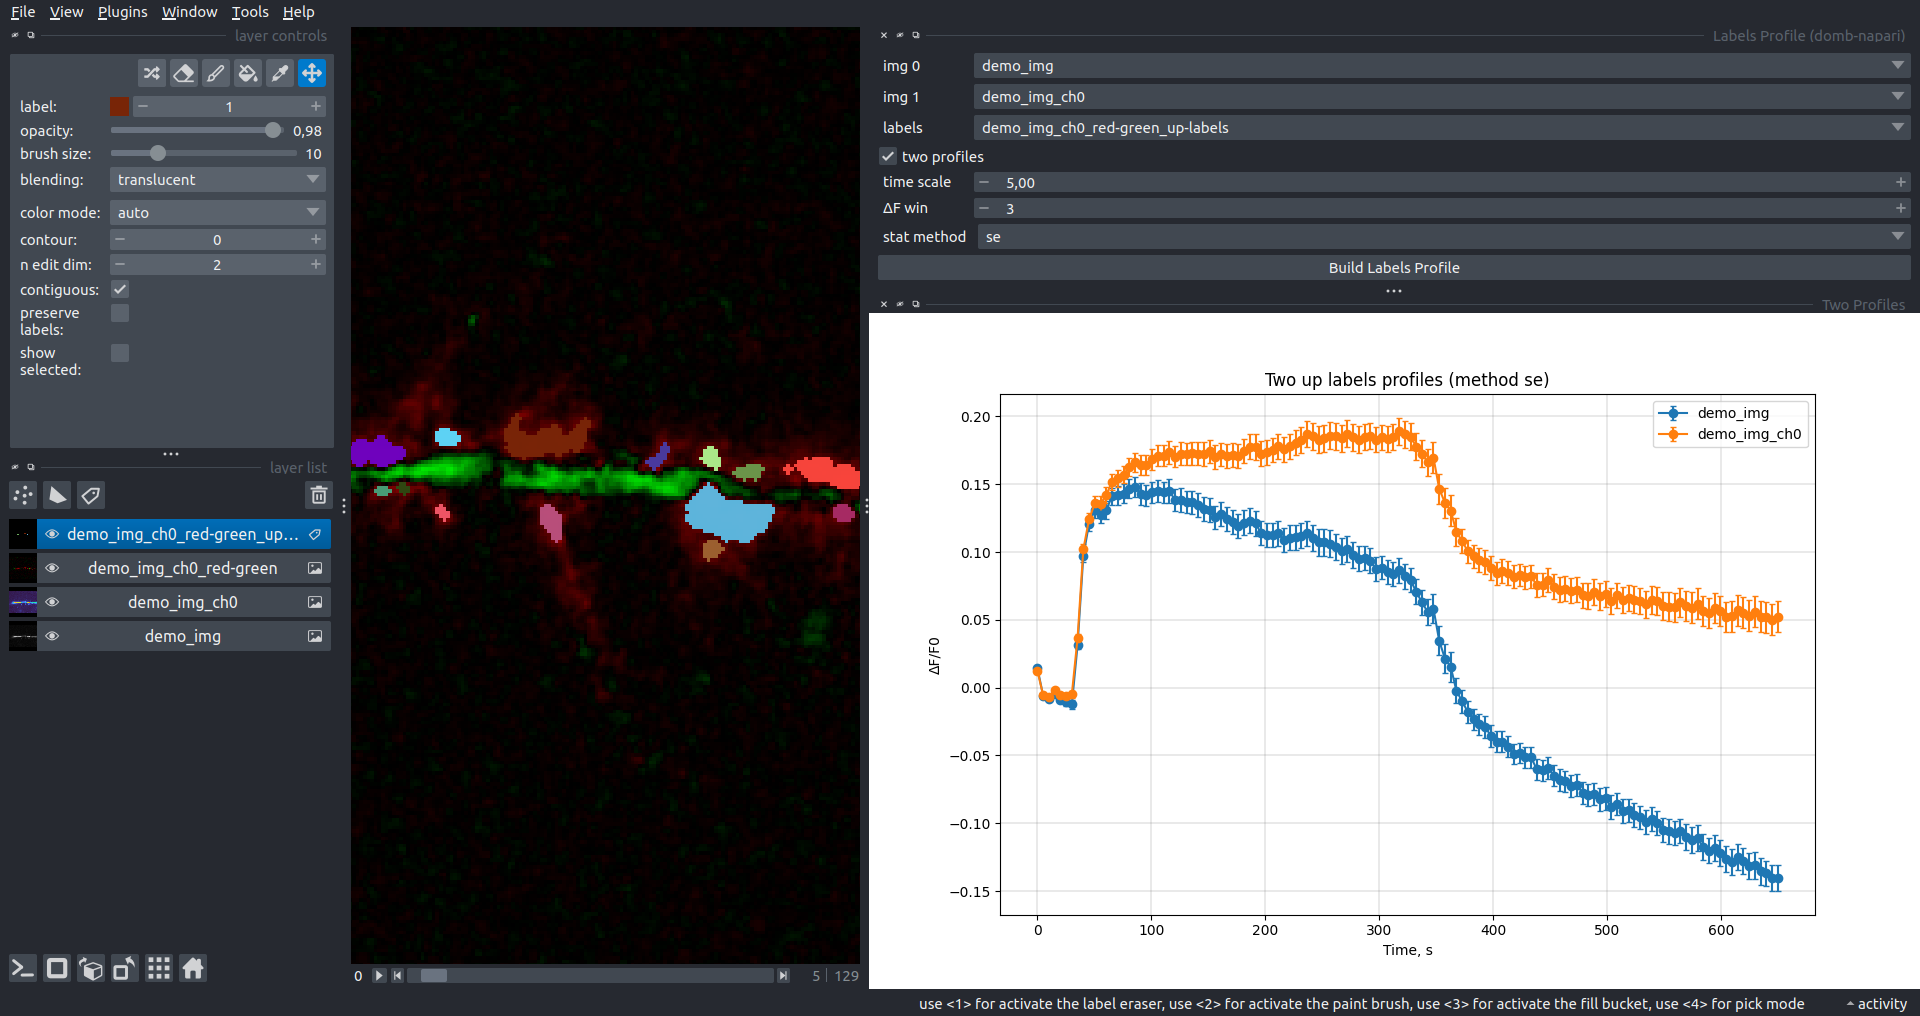
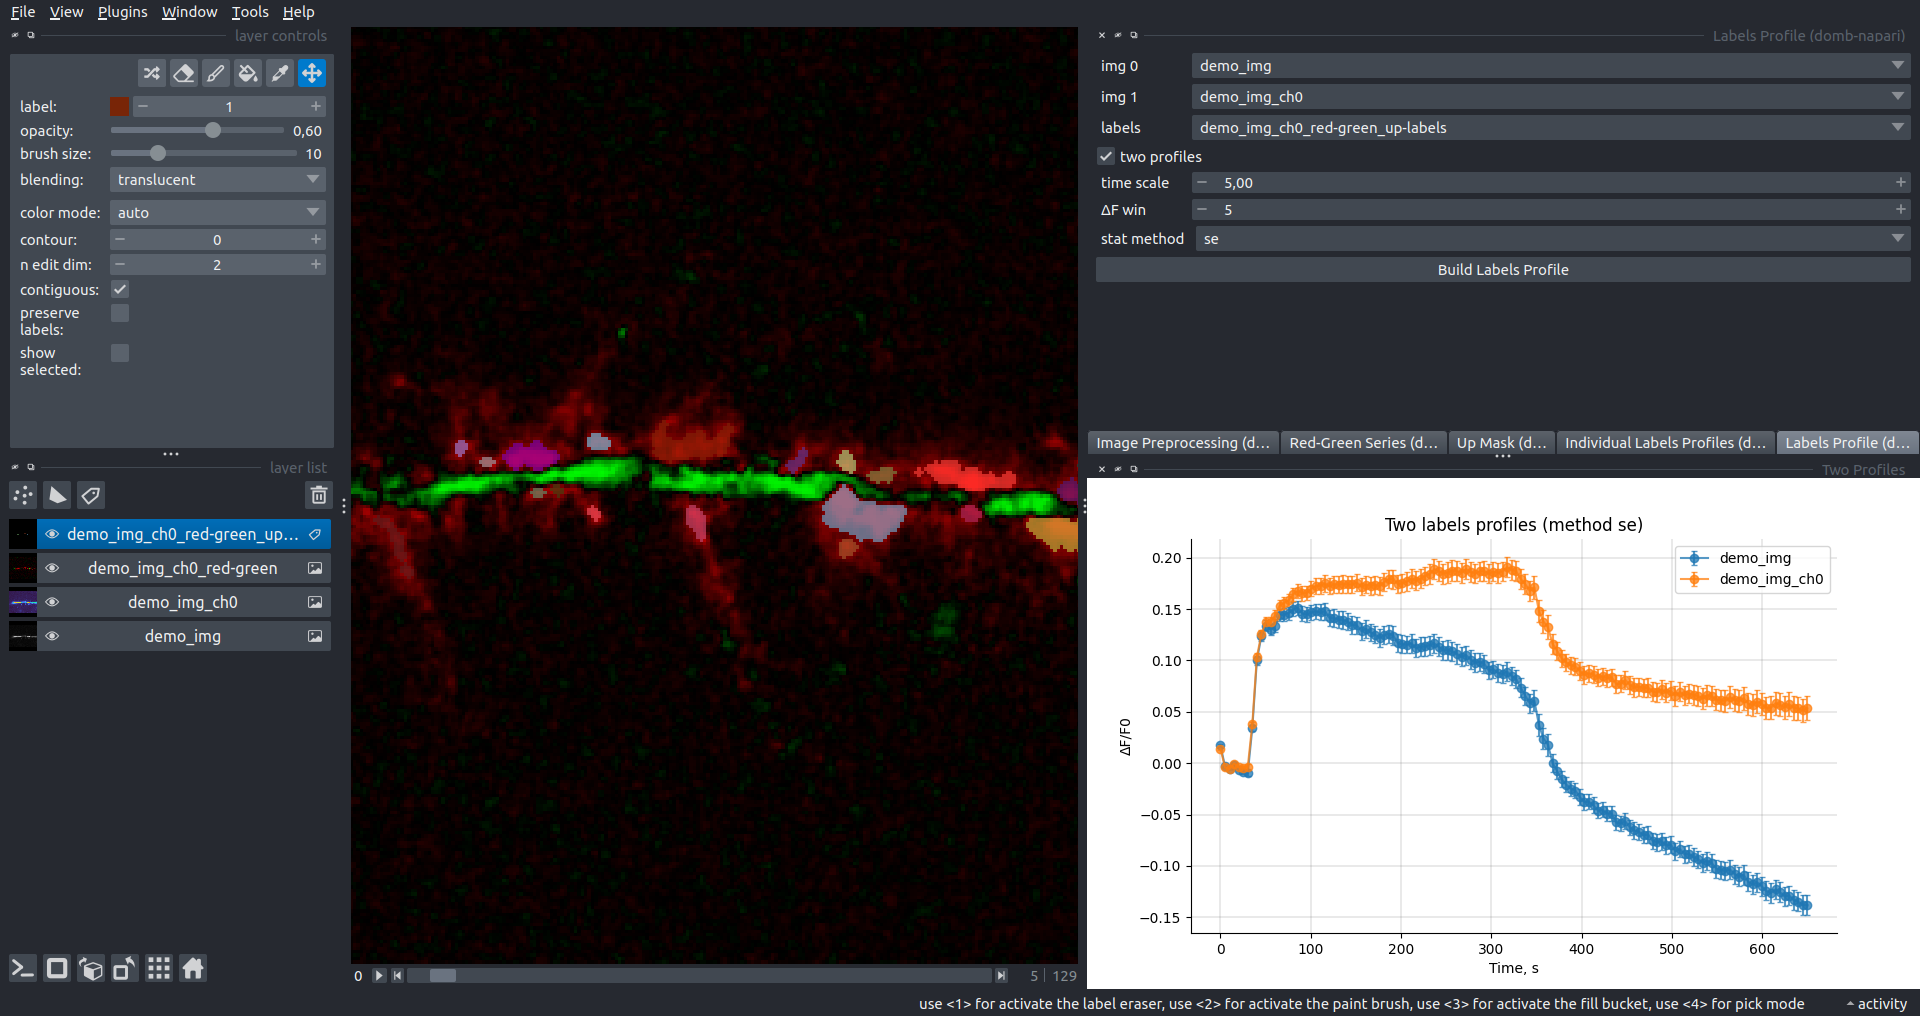
23.11.2023: add .csv output

diff --git a/domb_napari/_widget.py b/domb_napari/_widget.py
@@ -7,6 +7,9 @@ from napari import Viewer
 from napari.types import LabelsData, ImageData
 from napari.layers import Image, Points, Labels
 
+import pathlib
+import os
+
 import numpy as np
 from scipy import ndimage as ndi
 from scipy import stats
@@ -35,13 +38,14 @@ def split_channels(viewer: Viewer, img:Image,
             print(f'{img.name}: Split and preprocessing mode')
             for i in range(img.data.shape[1]):
                 ch_name = img.name + f'_ch{i}'
-                ch_img = img.data[:,i,:,:]
+                ch_img = img.data[:,i,:,:].astype(float)
+                corr_img = np.mean(ch_img, axis=0)
+                corr_mask = corr_img > filters.threshold_otsu(corr_img)
+                corr_mask = morphology.dilation(corr_mask, footprint=morphology.disk(10))
                 if gaussian_blur:
                     ch_img = filters.gaussian(ch_img, sigma=gaussian_sigma, channel_axis=0)
                     print(f'{ch_name}: Img series blured with sigma {gaussian_sigma}')
                 if photobleaching_correction:
-                    corr_img = np.mean(ch_img, axis=0)
-                    corr_mask = corr_img > filters.threshold_otsu(corr_img)
                     ch_img,_,r_corr = masking.pb_exp_correction(input_img=ch_img,
                                                                 mask=corr_mask,
                                                                 method=correction_method)
@@ -156,46 +160,107 @@ def up_mask_calc(viewer: Viewer, img:Image, detection_img_index:int=2,
                 viewer.add_labels(up_mask, name=mask_name,
                                 num_colors=1, color={1:(255,0,0,255)},
                                 opacity=0.6)
+                
+
+# @magic_factory(call_button='Build Down Mask',
+#                insertion_threshold={"widget_type": "FloatSlider", 'max': 0, 'min': -0.75},)  # insertions_threshold={'widget_type': 'FloatSlider', 'max': 1}
+# def down_mask_calc(viewer: Viewer, img:Image, detection_img_index:int=2,
+#                    insertion_threshold:float=-0.2,
+#                    save_mask:bool=False):
+#     if input is not None:
+#         if img.data.ndim != 3:
+#             raise ValueError('The input image should have 2 dimensions!')
+#         input_img = img.data
+#         detection_img = input_img[detection_img_index]
+        
+#         up_mask = detection_img >= np.max(np.abs(detection_img)) * insertion_threshold
+#         up_mask = morphology.opening(up_mask, footprint=morphology.disk(1))
+#         up_mask = ndi.binary_fill_holes(up_mask)
+#         up_mask = up_mask.astype(int)
+#         up_labels = measure.label(up_mask)
+#         print(f'Up mask shape: {up_mask.shape}, detected {np.max(up_labels)} labels')
+            
+#         labels_name = img.name + '_down-labels'
+#         try:
+#             viewer.layers[labels_name].data = up_labels
+#         except KeyError:
+#             viewer.add_labels(up_labels, name=labels_name, opacity=0.6)
+
+#         if save_mask:
+#             mask_name = img.name + '_down-mask'
+#             try:
+#                 viewer.layers[mask_name].data = up_mask
+#             except KeyError:
+#                 viewer.add_labels(up_mask, name=mask_name,
+#                                 num_colors=1, color={1:(255,0,0,255)},
+#                                 opacity=0.6)
 
 
-@magic_factory(call_button='Build Set Labels Profiles',)
+@magic_factory(call_button='Build Set Labels Profiles',
+               saving_path={'mode': 'd'})
 def labels_profile_line(viewer: Viewer, img:Image, labels:Labels,
                         time_scale:float=2.0,
                         raw_intensity:bool=False,
                         ΔF_win:int=5,
                         min_amplitude:float=0.0,
-                        max_amplitude:float=5.0):
+                        max_amplitude:float=5.0,
+                        save_data_frame:bool=False,
+                        saving_path:pathlib.Path = os.getcwd()):
     if input is not None:
         input_img = img.data
         input_labels = labels.data
+        df_name = img.name + '_lab_prof'
 
         profile_dF, profile_raw = masking.label_prof_arr(input_label=input_labels,
                                                          input_img_series=input_img,
                                                          f0_win=ΔF_win)
+        time_line = np.linspace(0, input_img.shape[0]*time_scale, \
+                                num=input_img.shape[0])
+
         if raw_intensity:
             profile_to_plot = profile_raw
             ylab = 'Intensity, a.u.'
+            df_name = df_name + '_raw'
         else:
             profile_to_plot = profile_dF
             ylab = 'ΔF/F0'
+            df_name = df_name + '_dF'
 
-        # plotting
-        time_line = np.linspace(0, input_img.shape[0]*time_scale, \
-                                num=input_img.shape[0])
-        
+        if save_data_frame:
+            import pandas as pd
+            output_df = pd.DataFrame(columns=['id','roi','int', 'time'])
+            for num_ROI in range(profile_to_plot.shape[0]):
+                profile_ROI = profile_to_plot[num_ROI]
+                df_ROI = pd.DataFrame({'id':np.full(profile_ROI.shape[0], img.name),
+                                       'roi':np.full(profile_ROI.shape[0], num_ROI+1),
+                                       'int':profile_ROI,
+                                       'time':time_line})
+                output_df = pd.concat([output_df.astype(df_ROI.dtypes),
+                                       df_ROI.astype(output_df.dtypes)],
+                                      ignore_index=True)
+            output_df.to_csv(os.path.join(saving_path, df_name+'.csv'))
+
+        # plotting        
         mpl_fig = plt.figure()
         ax = mpl_fig.add_subplot(111)
+        ax.spines['top'].set_visible(False)
+        ax.spines['right'].set_visible(False)
         for num_ROI in range(profile_to_plot.shape[0]):
             profile_ROI = profile_to_plot[num_ROI]
-            if (profile_ROI.max() < min_amplitude) | (profile_ROI.max() > max_amplitude):
-                continue
-            else:
+            if raw_intensity:
                 ax.plot(time_line, profile_ROI,
                          alpha=0.35, marker='o')
+                plt_title = f'{img.name} individual labels raw profiles'
+            elif (profile_ROI.max() > min_amplitude) | (profile_ROI.max() < max_amplitude):
+                ax.plot(time_line, profile_ROI,
+                         alpha=0.35, marker='o')
+                plt_title = f'{img.name} individual labels profiles (min={min_amplitude}, max={max_amplitude})'
+            else:
+                continue
         ax.grid(color='grey', linewidth=.25)
         ax.set_xlabel('Time, s')
         ax.set_ylabel(ylab)
-        plt.title(f'{img.name} individual labels profiles (min={max_amplitude}, max={min_amplitude})')
+        plt.title(plt_title)
         viewer.window.add_dock_widget(FigureCanvas(mpl_fig), name=f'{img.name} Profile')
 
 
@@ -242,29 +307,30 @@ def labels_profile_stat(viewer: Viewer, img_0:Image, img_1:Image, labels:Labels,
                                 num=input_img_0.shape[0])
         
         mpl_fig = plt.figure()
+        ax = mpl_fig.add_subplot(111)
+        ax.spines['top'].set_visible(False)
+        ax.spines['right'].set_visible(False)        
         if two_profiles:
-            ax = mpl_fig.add_subplot(111)
             ax.errorbar(time_line, arr_val_0,
                         yerr = arr_var_0,
-                        fmt ='-o', capsize=2, label=img_0.name)
+                        fmt ='-o', capsize=2, label=img_0.name, alpha=0.75)
             ax.errorbar(time_line, arr_val_1,
                         yerr = arr_var_1,
-                        fmt ='-o', capsize=2, label=img_1.name)
+                        fmt ='-o', capsize=2, label=img_1.name, alpha=0.75)
             ax.grid(color='grey', linewidth=.25)
             ax.set_xlabel('Time, s')
             ax.set_ylabel('ΔF/F0')
             plt.legend()
-            plt.title(f'Two up labels profiles (method {stat_method})')
+            plt.title(f'Two labels profiles (method {stat_method})')
             viewer.window.add_dock_widget(FigureCanvas(mpl_fig), name='Two Profiles')
         else:
-            ax = mpl_fig.add_subplot(111)
             ax.errorbar(time_line, arr_val_0,
                         yerr = arr_var_0,
                         fmt ='-o', capsize=2)
             ax.grid(color='grey', linewidth=.25)
             ax.set_xlabel('Time, s')
             ax.set_ylabel('ΔF/F0')
-            plt.title(f'{img_0.name} up labels profile (method {stat_method})')
+            plt.title(f'{img_0.name} labels profile (method {stat_method})')
             viewer.window.add_dock_widget(FigureCanvas(mpl_fig), name=f'{img_0.name} Profile')
 
 

diff --git a/README.md b/README.md
@@ -5,13 +5,9 @@ domb-napari
 [![napari hub](https://img.shields.io/endpoint?url=https://api.napari-hub.org/shields/domb-napari)](https://napari-hub.org/plugins/domb-napari)
 ![PyPI - Version](https://img.shields.io/pypi/v/domb-napari)
 ![PyPI - License](https://img.shields.io/pypi/l/domb-napari)
-![Website](https://img.shields.io/website?up_message=domb.bio&up_color=%23038C93&url=https%3A%2F%2Fdomb.bio%2F)
+![Website](https://img.shields.io/website?up_message=domb.bio%2Fnapari&up_color=%2323038C93&url=https%3A%2F%2Fdomb.bio%2Fnapari%2F)
 
-Implementation of the [DoMB Tools](https://domb.bio/) package as plugin for [napari](https://napari.org/).
-
-A Napari plugin offers widgets to analyze fluorescence-labeled proteins redistribution in widefield epifluorescence time-lapse acquisitions. Useful for studying calcium-dependent translocation of neuronal calcium sensors, synaptic receptors traffic during long-term plasticity induction, membrane protein tracking, etc.
-
-_Currently, the plugin lacks test coverage!_
+A napari plugin offers widgets to analyze fluorescence-labeled proteins redistribution in widefield epifluorescence time-lapse acquisitions. Useful for studying calcium-dependent translocation of neuronal calcium sensors, synaptic receptors traffic during long-term plasticity induction, membrane protein tracking, etc.
 
 ![](https://raw.githubusercontent.com/wisstock/domb-napari/master/images/translocation.gif)
 __Hippocalcin (neuronal calcium sensor) redistributes in dendritic branches upon NMDA application__
@@ -29,6 +25,7 @@ Provides functions for preprocessing multi-channel fluorescence acquisitions:
 Primary method for detecting fluorescent-labeled targets redistribution in time. Returns a series of differential images representing the intensity difference between the current frame and the previous one as new image with the `_red-green` suffix.
 
 Parameters:
+
 - `left frames` - number of previous frames for pixel-wise averaging.
 - `space frames` - number of frames between the last left and first right frames.
 - `right frames` - number of subsequent frames for pixel-wise averaging.
@@ -40,6 +37,7 @@ Parameters:
 Generates labels for insertion sites (regions with increasing intensity) based on `-red-green` images. Returns labels layer with `_up-labels` suffix.
 
 Parameters:
+
 - `detection img index` - index of the frame from `-red-green` image used for insertion sites detection.
 - `insertion threshold` - threshold value for insertion site detection, intensity on selected `_red-green` frame normalized in -1 - 0 range.
 - `save mask` - if selected, a total up mask (containing all ROIs) will be created with the `_up-mask` suffix.
@@ -57,6 +55,15 @@ Filters ROIs by minimum (`min amplitude`) and maximum (`max amplitude`) intensit
 
 _Note: Intensity filtering is most relevant for ΔF/F0 profiles._
 
+Additionally, you can save ROI intensity profiles as .csv using the `save data frame` option and specifying the `saving path`. The output data frames `%img_name%_lab_prof.csv` will contain the following columns:
+
+- __id__ - unique image ID, the name of the input `napari.Image` object.
+- __roi__ - ROI number, consecutively numbered starting from 1.
+- __int__ - ROI mean intensity, raw or ΔF/F0 according to the `raw intensity` option.
+- __time__ - frame time point according to the `time scale`.
+
+_Note: The data frame will contain information for all ROIs; filtering options pertain to plotting only._
+
 ![](https://raw.githubusercontent.com/wisstock/domb-napari/master/images/pic_3.png)
 
 ### Labels Profile
@@ -65,6 +72,7 @@ Builds a plot with the averaged intensity of all ROIs in `labels`. Can take two 
 The `time scale` and `ΔF win` are the same as in the __Individual Labels Profiles__.
 
 The `stat method` provides methods for calculating intensity errors:
+
 - `se` - standard error of mean.
 - `iqr` - interquartile range.
 - `ci` - 95% confidence interval for t-distribution.
